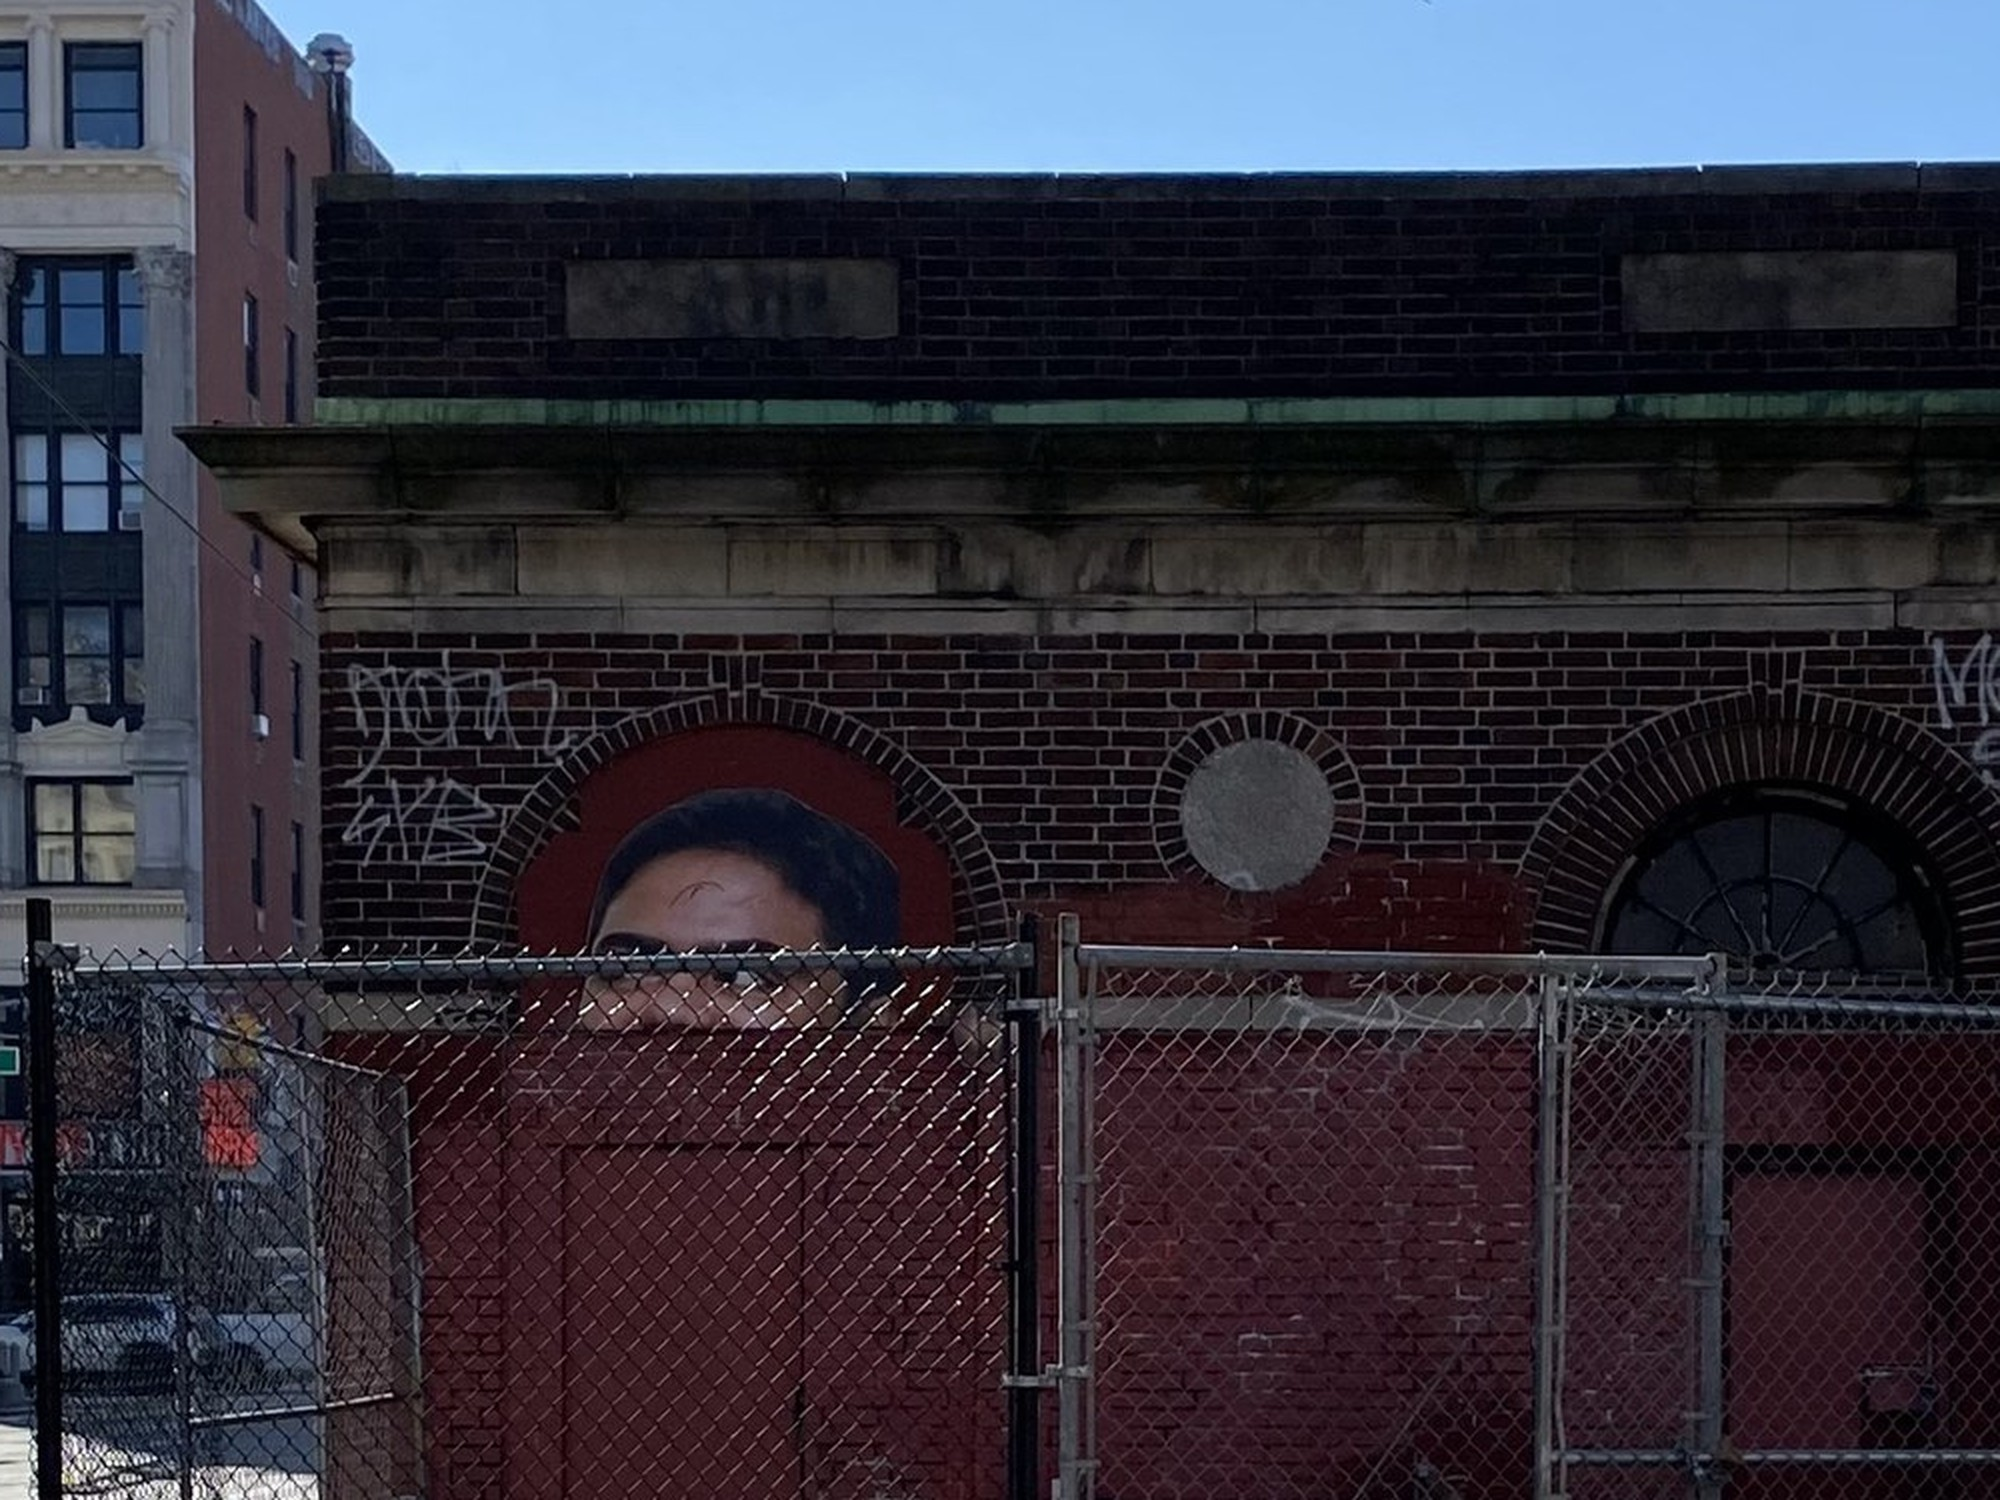
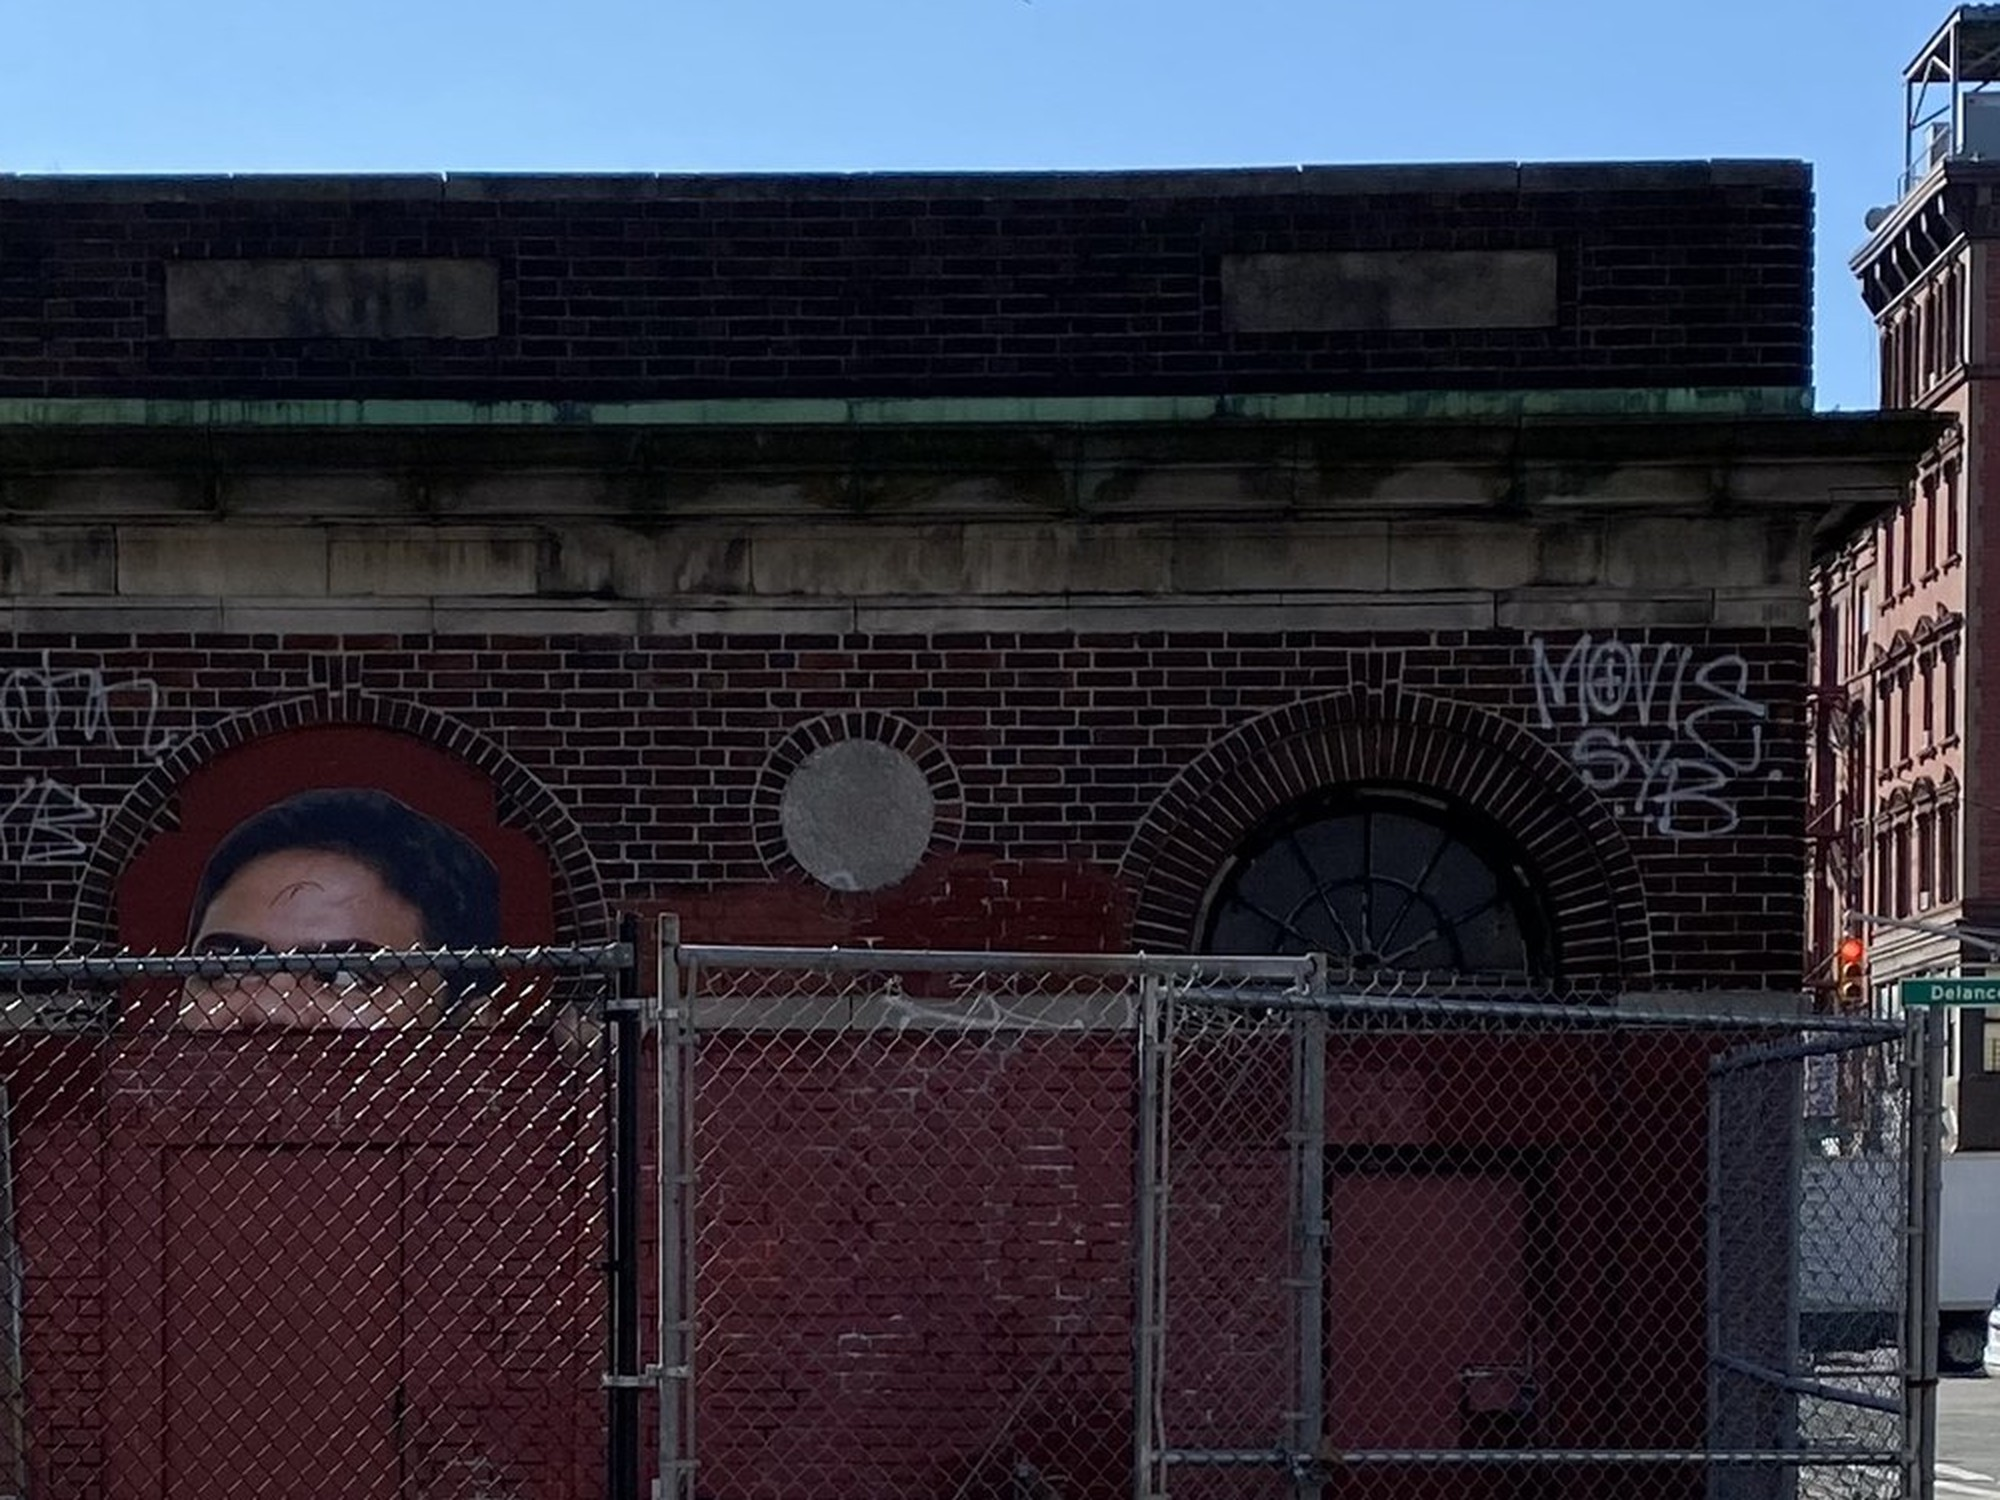
Center the entrance-before crop, widen Context to full margins
- Re-cropped entrance-before.jpg from the original source, centered
  on the round window/arches to match entrance-dusk.jpg's symmetry
- Context text block no longer constrained to max-w-2xl; it now
  spans the full 0.5in page margins like the rest of the site
- Fixed a broken template literal in the Context copy (missing
  closing backtick/comma) introduced by a manual edit, while keeping
  the updated wording and the Porto Rico Importing Co. mention

diff --git a/app/page.tsx b/app/page.tsx
@@ -28,9 +28,9 @@ const BLUEPRINTS: { src: string; alt: string }[] = [
 ];
 
 const CONTEXT = [
-  `Built in the 1930s to serve riders of the Second Avenue elevated subway, the comfort station at Allen Street and Delancey Street remained open to the public until the 1950s, when it was closed. The City of New York acquired the site in 1930, and NYC Parks has maintained the Allen Street Malls since 1929. For more than seventy years the building has sat vacant and boarded up — its masonry largely intact, but its interior in an advanced state of disrepair.`,
-  `The Lower East Side is experiencing the city's first sustained decline in its artist population in decades and has the highest rate of economic inequality in New York City. Rising rents and ongoing gentrification have left long-term, lower-income, and immigrant residents with fewer places to gather, and small arts organizations with fewer places to work. Residents consistently point to the same needs: affordable cultural programming, intergenerational gathering space, free or low-cost arts education, and accessible venues for neighborhood traditions.`,
-  `In response, the Lower East Side Cultural Center proposes to renovate the building into a multidisciplinary cultural hub — offering low-cost arts education, community storytelling, performances, and heritage programming alongside a café and public restroom. The project is backed by community partners including Henry Street Settlement, University Settlement, and the Tenement Museum, and will include artist residencies, a youth workforce program with Emma Lazarus High School, and free and low-cost programming for the neighborhood it serves.`,
+  `Built in the 1930s, the comfort station at Allen Street and Delancey Street remained open to the public until the 1950s, when it was closed. For more than seventy years the building has sat vacant and boarded up. Now Parks has opened the door for new development, with the aim of making it a concession stand. The Lower East Side Cultural Center, in partnership with Porto Rico Importing Co., would bring high-quality concessions while serving the neighborhood and enhancing its cultural footprint.`,
+  `The Lower East Side is experiencing its first sustained decline in its artist population in decades and has the highest rate of economic inequality in the city. Rising rents and ongoing gentrification have left long-term, lower-income, and immigrant residents with fewer places to gather, and small arts organizations with fewer places to work. Residents consistently point to the same needs: affordable cultural programming, intergenerational gathering space, free or low-cost arts education, and accessible venues for neighborhood traditions.`,
+  `We propose to renovate the building into a multidisciplinary cultural hub — offering low-cost arts education, community storytelling, performances, and heritage programming alongside a café and public restroom. The project is backed by community partners including Henry Street Settlement, University Settlement, and the Tenement Museum, and will include artist residencies, a youth workforce program with Emma Lazarus High School, and free and low-cost programming for the neighborhood it serves.`,
 ];
 
 const HEADING_CLASS =
@@ -98,7 +98,7 @@ export default function Home() {
           </div>
         </div>
 
-        <div className="mx-auto flex max-w-2xl flex-col gap-4">
+        <div className="flex flex-col gap-4">
           <h2 className={`${HEADING_CLASS} text-center`}>Context</h2>
           {CONTEXT.map((paragraph) => (
             <p
